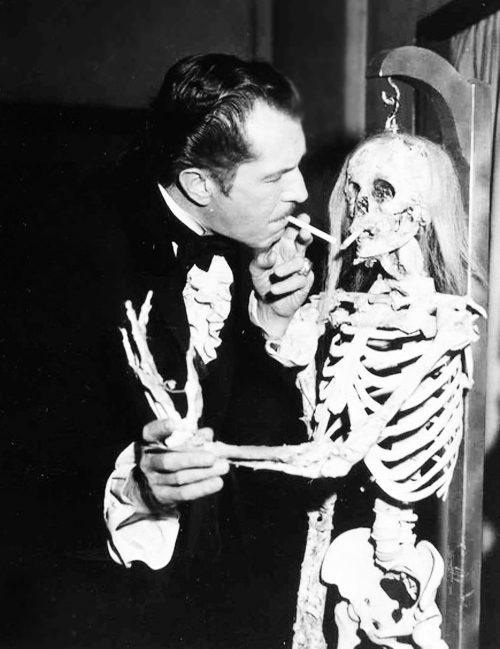
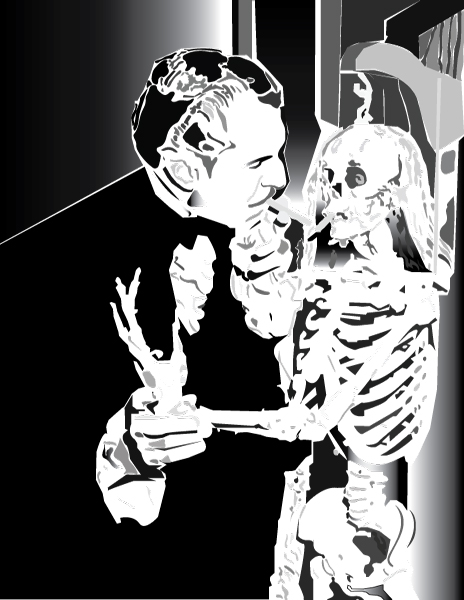
21

diff --git a/index.html b/index.html
@@ -72,25 +72,25 @@
         <div class="column"></div>
 
      <div id="gallery" class="column box gallery">
-        <a href="imageone.html">
-            <img src="img/otterb.jpg" alt="">
-            <p class="button"><a href="imageone.html">Romp of Otters</p>
+        <a href="imagefive.html">
+            <img src="img/shb.jpg" alt="">
+            <p class="button"><a href="imageone.html">Sleepy Head</p>
           </a>
         </a>
       
-           <a href="imagetwo.html">
-          <img src="img/moonb.jpg" alt="">
-          <p class="button"><a href="imagetwo.html">Moon Infographic Poster</p>
+           <a href="imagesix.html">
+          <img src="img/oceanb.jpg" alt="">
+          <p class="button"><a href="imagetwo.html">Ocean Poster</p>
                </a>
           </a>
-           <a href="imagethree.html">
-          <img src="img/drapb.jpg" alt="">
-          <p class="button"><a href="imagethree.html">Draplin Spread</p>
+           <a href="imageseven.html">
+          <img src="img/vincentb.jpg" alt="">
+          <p class="button"><a href="imagethree.html">Vincent Price Illustrator Design</p>
                </a>
           </a>
-           <a href="imagefour.html">
-          <img src="img/creatureb.jpg" alt="">
-          <p class="button"><a href="imagefour.html">Creature Features Ad</p>
+           <a href="imageeight.html">
+          <img src="img/faceb.jpg" alt="">
+          <p class="button"><a href="imagefour.html">Identity</p>
                </a>
           </a>
         </div>

diff --git a/imageseven.html b/imageseven.html
@@ -26,7 +26,7 @@
 
 
 
-    <img src="img/moon.jpg" alt="me" class="two">
+    <img src="img/vincent.jpg" alt="me" class="two">
 
 
 

diff --git a/imagesix.html b/imagesix.html
@@ -26,7 +26,7 @@
 
 
 
-    <img src="img/moon.jpg" alt="me" class="two">
+    <img src="img/ocean.jpg" alt="me" class="two">
 
 
 

diff --git a/imageeight.html b/imageeight.html
@@ -26,7 +26,7 @@
 
 
 
-    <img src="img/moon.jpg" alt="me" class="two">
+    <img src="img/face.jpg" alt="me" class="two">
 
 
 

diff --git a/imagefive.html b/imagefive.html
@@ -26,7 +26,7 @@
 
 
 
-    <img src="img/moon.jpg" alt="me" class="two">
+    <img src="img/sh.jpg" alt="me" class="two">
 
 
 
